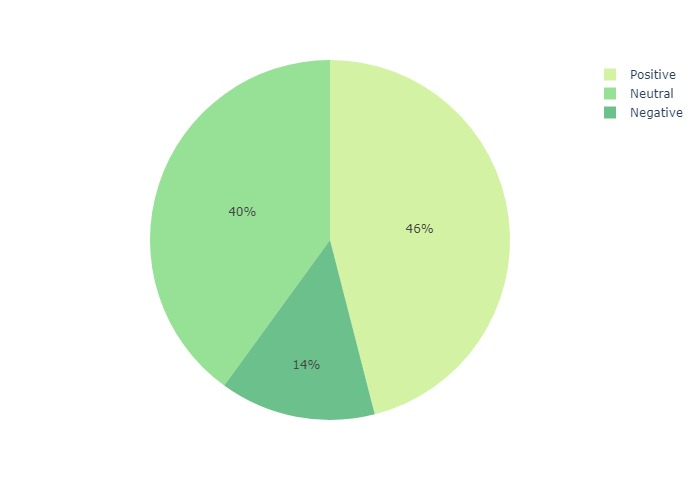
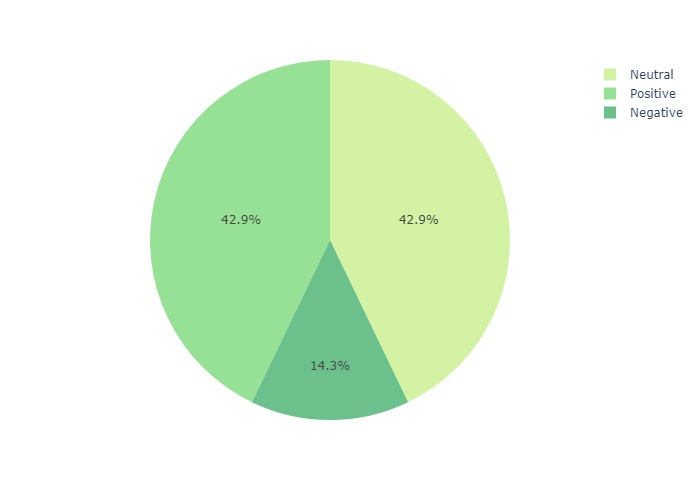
final sentiment

diff --git a/templates/Sentiment.html b/templates/Sentiment.html
@@ -35,7 +35,7 @@
             <br>
             <p class="header col-md-4 col-lg-offset-4">Ici nous analysons si le tweet est : positif, négatif ou neutre selon un hashtag et le nombre de tweets voulu. L'analyse donne un pie chart de la répartion des tweets et un nuage de 
               mots qui sont les plus représentés dans les tweets. Voici les principaux Hashtags des présidentielles pour facilité les recherches : #présidentielle2022, #Macron2022, #MelenchonPresident, #Zemmour. La limite de tweets que l'on peut scraper est de 2500.
-              
+              Pour actualiser la page faite ctrl F5.
             
             
             

diff --git a/templates/nav.html b/templates/nav.html
@@ -11,7 +11,7 @@
                 <li><a href="/" class="nav-item">Acceuil</a></li><!--
              --><li><a href="/rtlike" class="nav-item">Retweets</a></li><!--
              --><li><a href="/hashtags" class="nav-item">Hashtags</a></li><!--
-             --><li><a href="/sentiments" class="nav-item">Sentiments</a></li>
+             --><li><a href="/sentiments" class="nav-item">Sentiment</a></li>
               </ul>
             </div>
           </nav>

diff --git a/app.py b/app.py
@@ -57,7 +57,7 @@ def sentiment():
         print(request.form.get("nbTweet"))
         # # nbTweet = '40'
         plot_sent(key_word, int(nbTweet))
-        return render_template('sentiment.html')
+        return redirect(url_for('sentiment'))
         # return render_template('sentiment.html', key_word=key_word, nbTweet=nbTweet)
         return render_template('sentiment.html')
     else:
